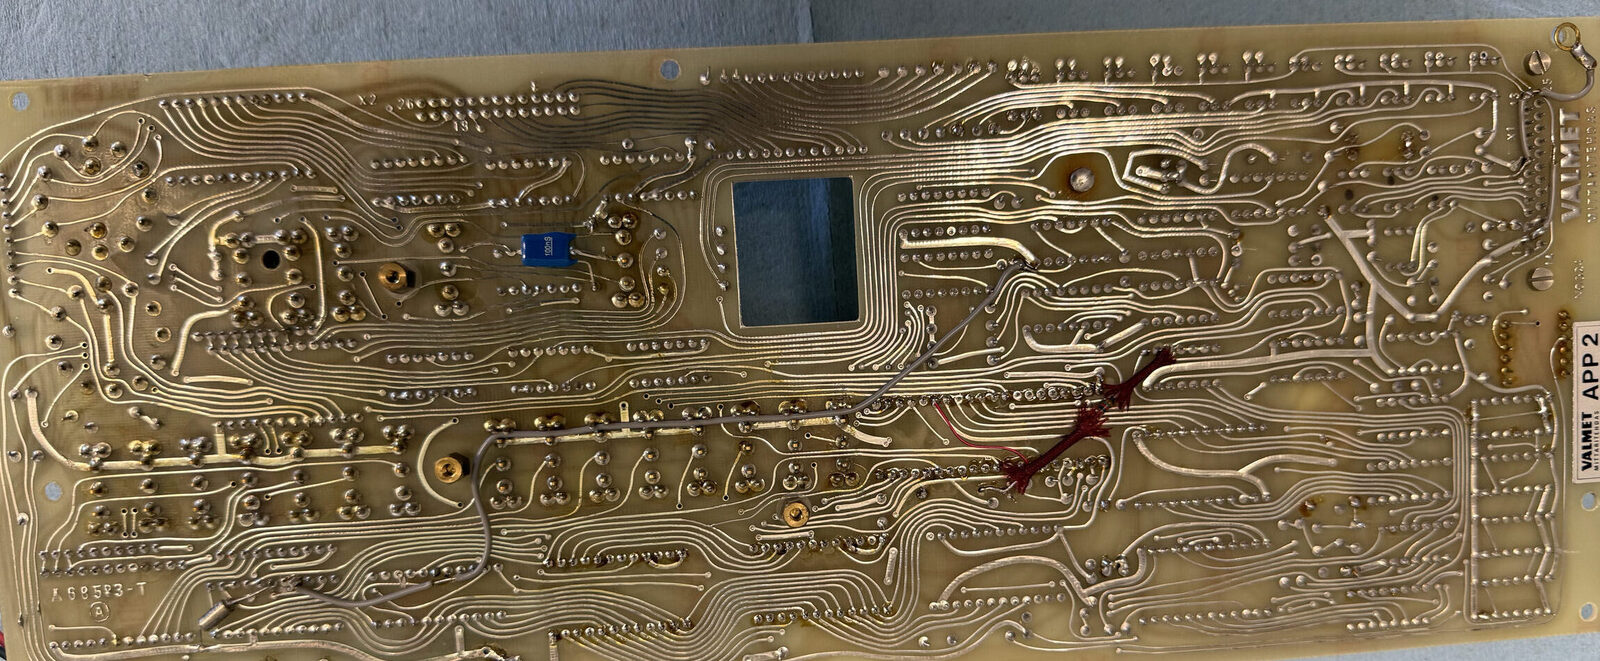
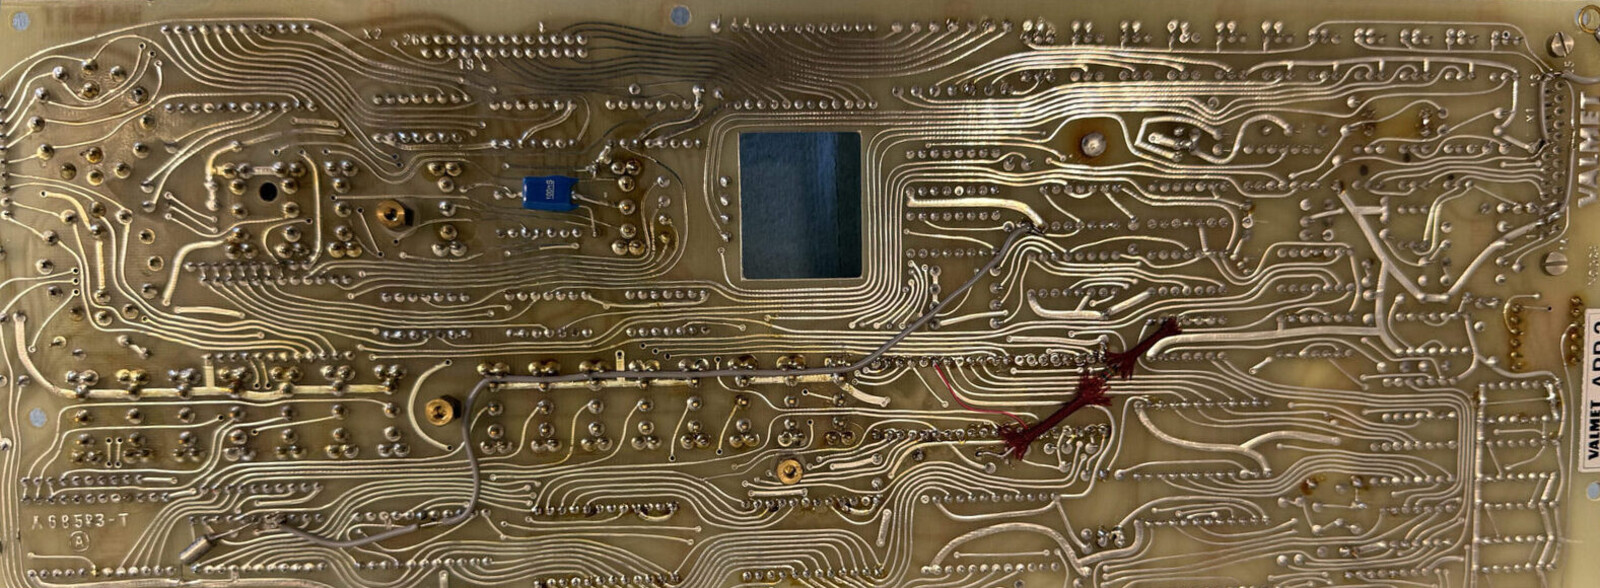
docs: tighten photo crops, level solder-side tilt
- component_side: crop ~60px of background off the top edge; chip
  map viewBox shifted (0 60 1600 648) to absorb it instead of
  touching every marker coordinate.
- solder_side: was still tilted ~2.3 degrees with background visible
  on most edges; rotate to level and crop tight to the board.

diff --git a/docs/bottom_pcb_chip_map.html b/docs/bottom_pcb_chip_map.html
@@ -35,7 +35,7 @@
 <div class="controls" id="controls"></div>
 
 <div class="wrap">
-  <svg id="overlay" viewBox="0 0 1600 708" xmlns="http://www.w3.org/2000/svg" style="position:absolute; top:0; left:0; width:100%; height:auto;">
+  <svg id="overlay" viewBox="0 60 1600 648" xmlns="http://www.w3.org/2000/svg" style="position:absolute; top:0; left:0; width:100%; height:auto;">
     <g class="layer" data-layer="opto">
       <!-- 4N26-B1..15 -->
     </g>